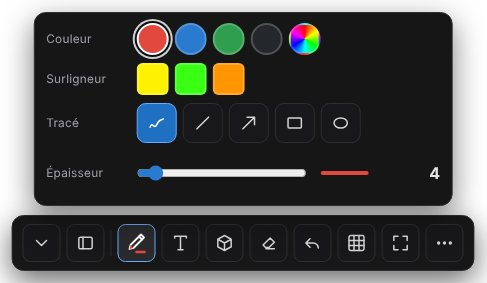
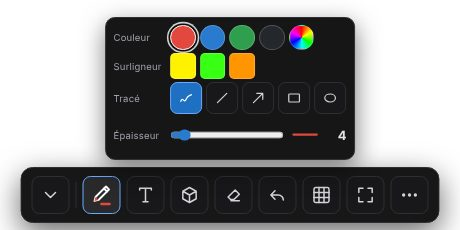
Tableau blanc : menu du crayon plus compact
Claude-Session: https://claude.ai/code/session_0132P7fSy2K8VC3HWdnHumMj

diff --git a/index.html b/index.html
@@ -591,6 +591,14 @@
   .reader.wbon .penbar,.reader.wbon.pen-side .penbar,.reader.auto.calme.wbon .penbar{left:50%;right:auto;top:auto;bottom:calc(12px + env(safe-area-inset-bottom,0px));transform:translateX(-50%);flex-direction:row;max-width:94vw;max-height:none;height:auto;flex-wrap:wrap}
   .reader.wbon.pen-side .penbar .sep{width:1px;height:26px}
   .reader.wbon.pen-side .penbar .ppop{left:50%;right:auto;top:auto;bottom:calc(100% + 10px);transform:translateX(-50%)}
+  /* Tableau blanc : menu du crayon plus compact (demande de Jeremy, 29 oct.) — tout à 80 %, moins d'espace vide */
+  .reader.wbon .penbar #popCol{zoom:.8;padding:8px 10px;gap:4px}
+  .reader.wbon .penbar #popCol .prang{gap:5px}
+  .reader.wbon .penbar #popCol .prang>.lab{min-width:66px}
+  .reader.wbon .penbar #popCol .plarg{min-width:0;gap:6px}
+  .reader.wbon .penbar #popCol .plarg input{min-width:120px;height:28px}
+  .reader.wbon .penbar #popCol .plarg svg{width:40px}
+  .reader.wbon .penbar #popCol .plarg b{min-width:1.6em}
   .reader.wbon #penSide{display:none!important}
   body:has(.reader.wbon.open) .toast{bottom:auto;top:calc(52px + env(safe-area-inset-top,0px))}   /* tableau blanc : les messages s'affichent en haut */
   .reader.pen-side.pen-fold .penbar{flex-wrap:nowrap}
